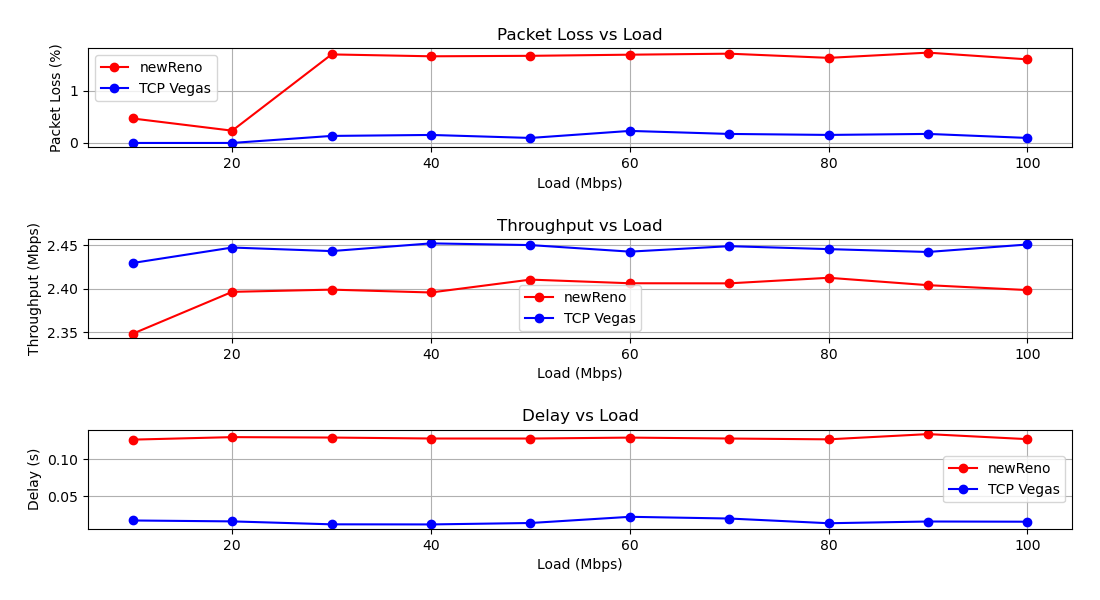
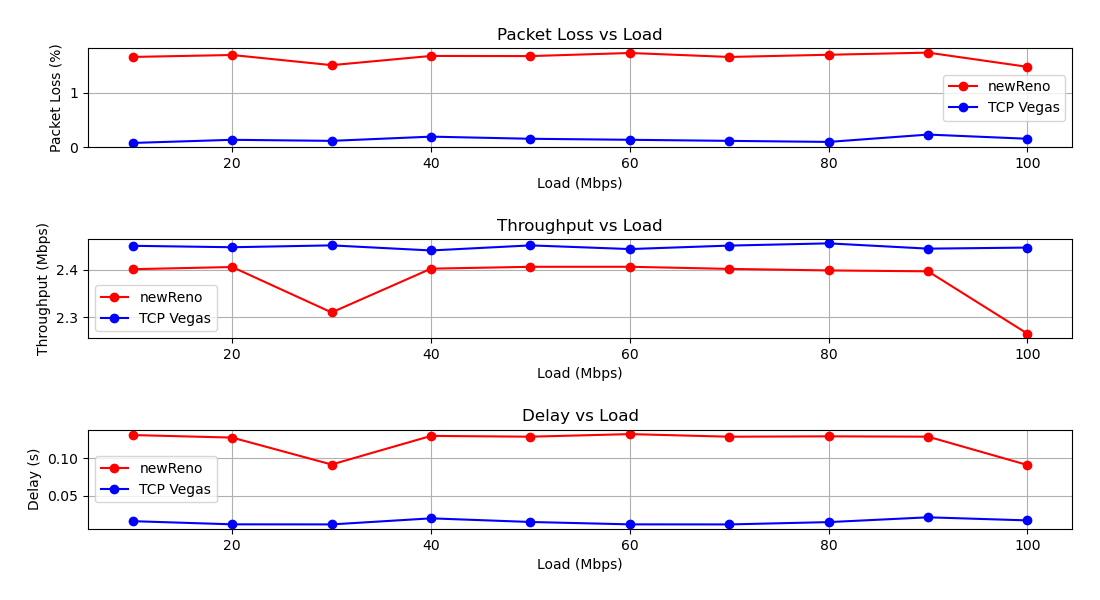
changed application type to on-off helper
...to control the actual sending rate instead of total bytes sent

diff --git a/partB.cc b/partB.cc
@@ -51,7 +51,7 @@ void RunSimulation(double load, std::string tcpVariant, std::ofstream & outFile)
     PointToPointHelper p2p;
     p2p.SetDeviceAttribute("DataRate", StringValue("100Mbps")); // router & dest conn. rate: 100Mbps
     p2p.SetChannelAttribute("Delay", StringValue("1ms"));
-    p2p.SetQueue("ns3::DropTailQueue", "MaxSize", StringValue("1p")); // fifo queue in every connection
+    p2p.SetQueue("ns3::DropTailQueue", "MaxSize", StringValue("10p")); // fifo queue in every connection
 
     // A3 - Router Connection
     NetDeviceContainer routerDevices = p2p.Install(lanNodes.Get(2), routerNode.Get(0));
@@ -92,9 +92,12 @@ void RunSimulation(double load, std::string tcpVariant, std::ofstream & outFile)
     sinkApp.Stop(Seconds(SIM_END));
 
     // Configure TCP sender
-    BulkSendHelper source("ns3::TcpSocketFactory", InetSocketAddress(destInterfaces.GetAddress(1), port));
-    source.SetAttribute("MaxBytes", UintegerValue(load * (1000000/8.0f))); // sends a total of <Load> Mbytes
-    source.SetAttribute("SendSize", UintegerValue(512)); // packet size
+    // cannot use bulk send application since we cannot control its sending rate 
+    OnOffHelper source("ns3::TcpSocketFactory", InetSocketAddress(destInterfaces.GetAddress(1), port));
+    source.SetAttribute("DataRate", DataRateValue(DataRate(std::to_string(load) + "Mbps")));
+    source.SetAttribute("PacketSize", UintegerValue(512));
+    source.SetAttribute("OnTime", StringValue("ns3::ConstantRandomVariable[Constant=1]")); // always working
+    source.SetAttribute("OffTime", StringValue("ns3::ConstantRandomVariable[Constant=0]"));
     ApplicationContainer sourceApp = source.Install(lanNodes.Get(0));  // installed on A1
     sourceApp.Start(Seconds(0.0));
     sourceApp.Stop(Seconds(SIM_END));
